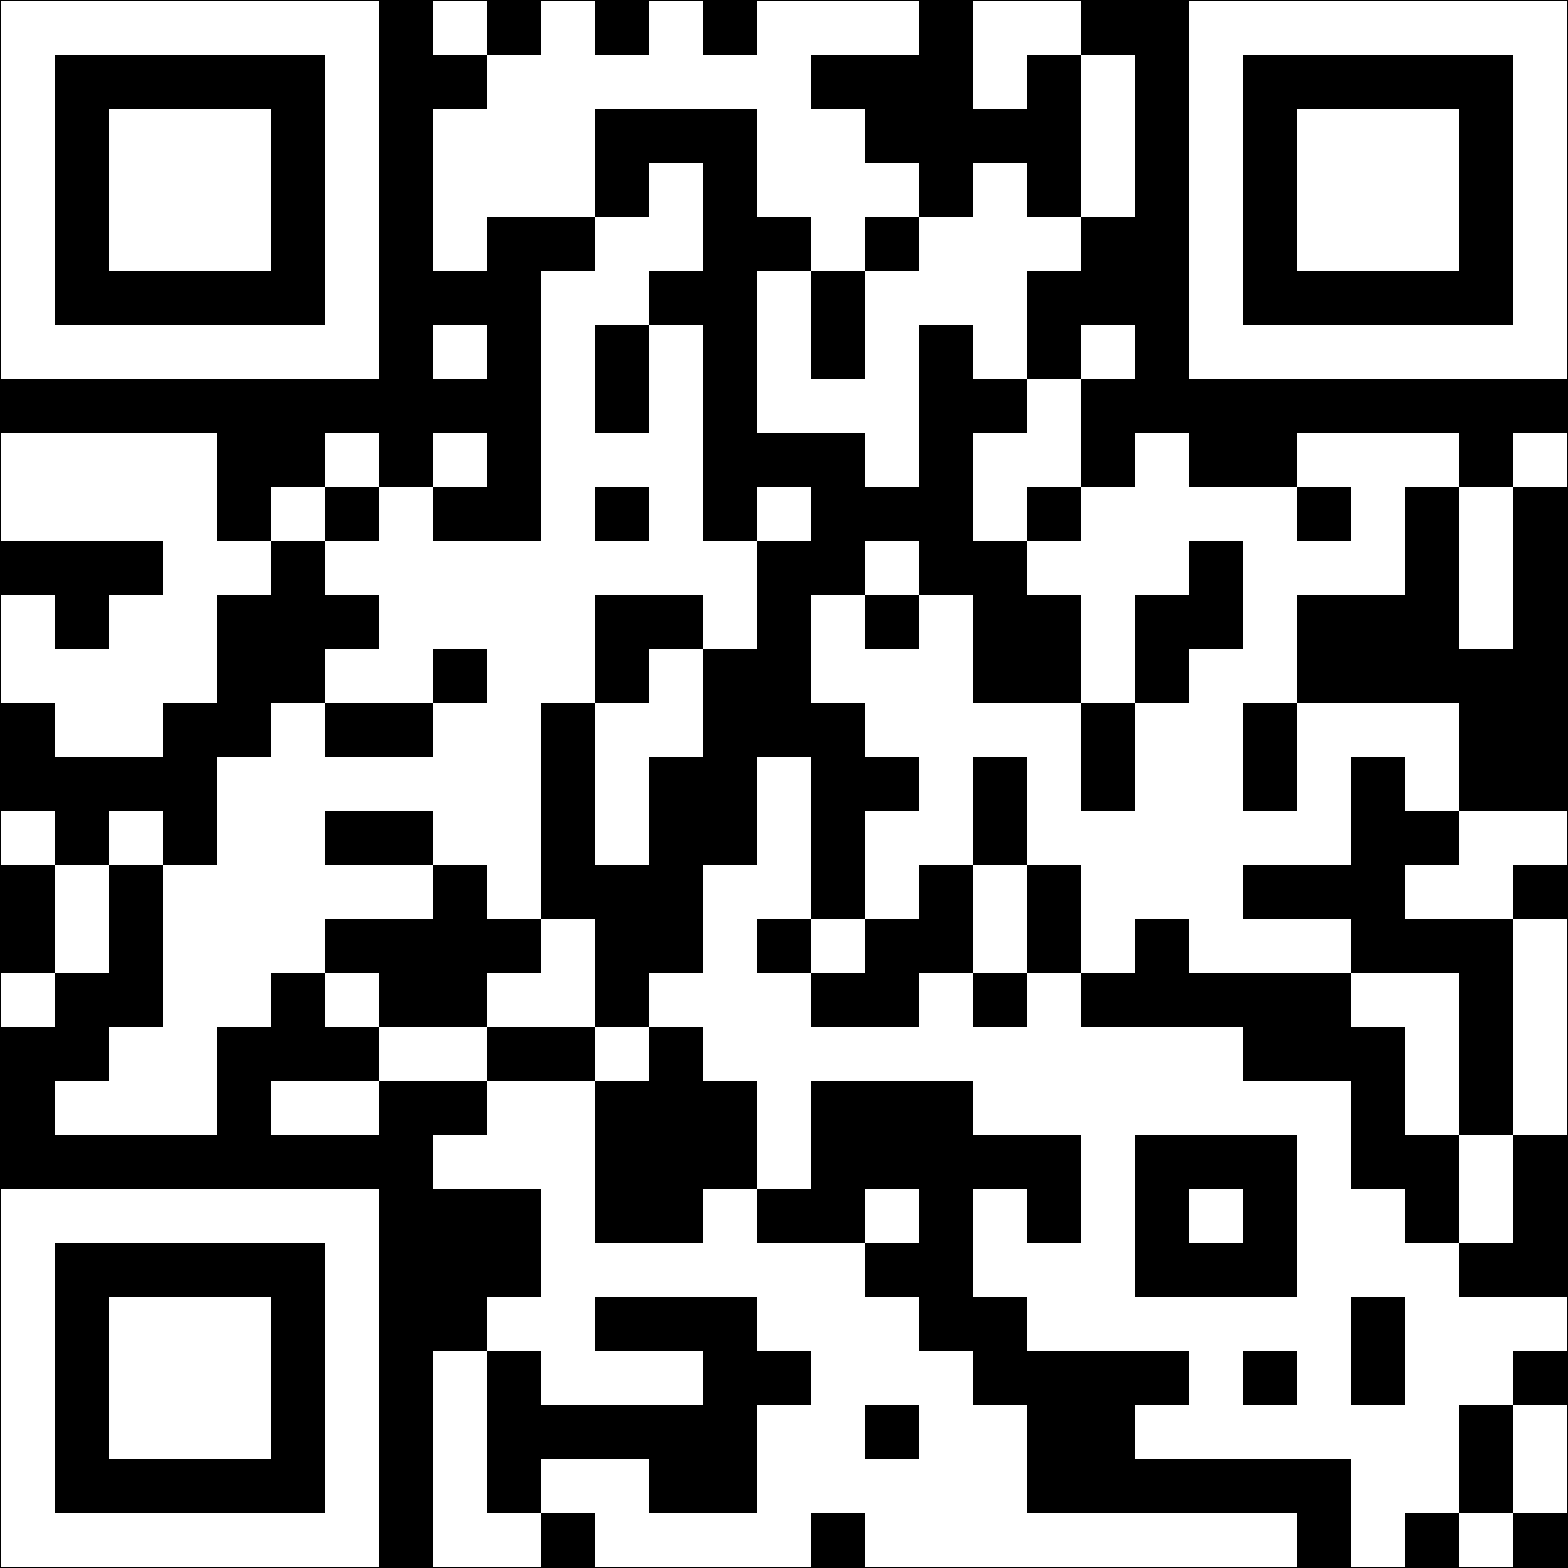
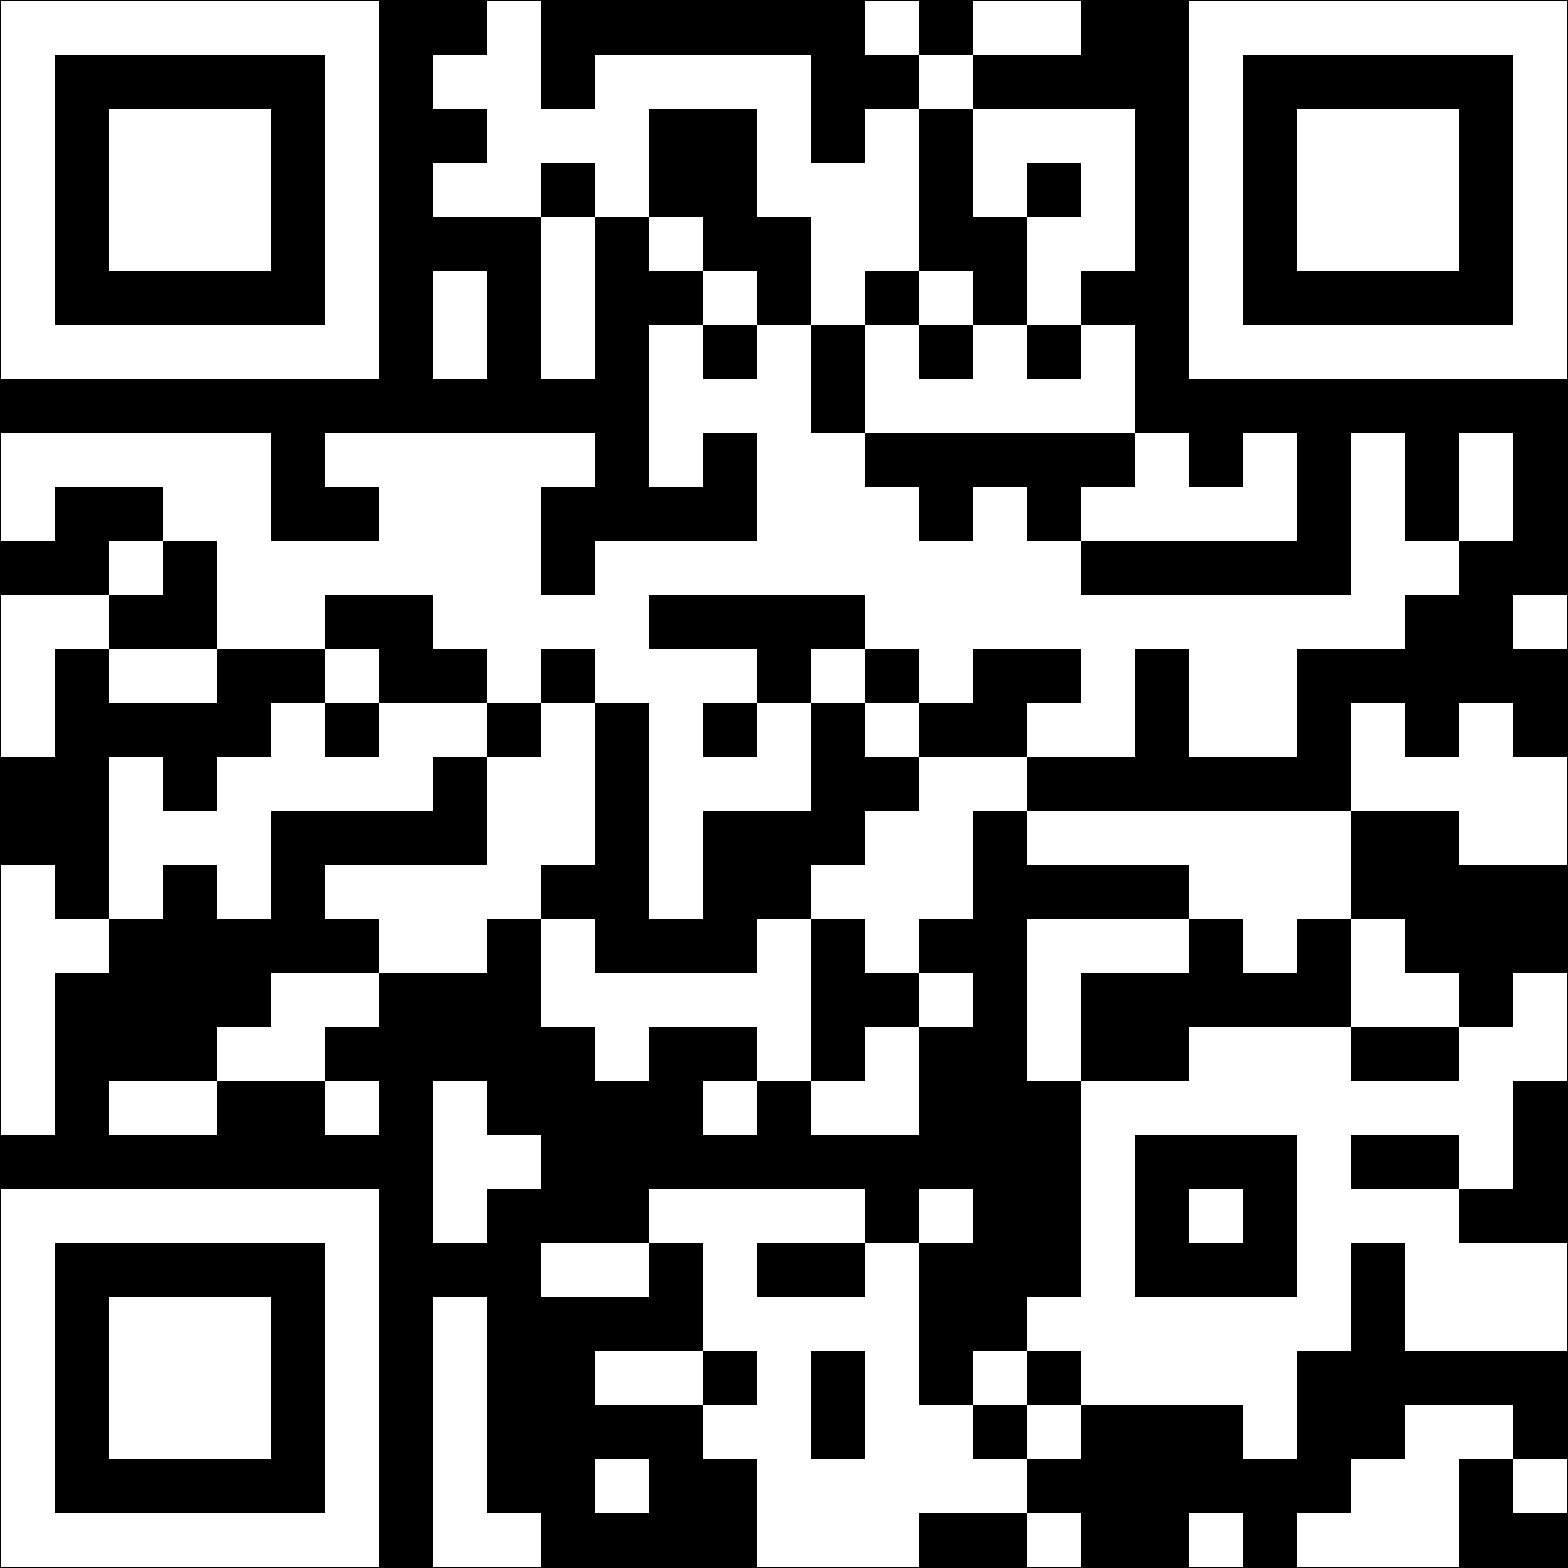
qr utm_source=artwork
updated qr codes on each image to reflect location on site

diff --git a/src/components/Artworks/Artwork.js b/src/components/Artworks/Artwork.js
@@ -67,7 +67,7 @@ const Artwork = (props) => {
         <div className="artwork-item__link">
           <img
             className="artwork-item__qr"
-            src={`/images/qr-codes/qr-monolyth.global-utmCarousel.png`}
+            src={`/images/qr-codes/qr-monolyth.global-utmArtwork.png`}
             alt="QR code to get additional info"
           />
           {/* <h3>theprintfineart.com</h3> */}

diff --git a/src/components/EmailCollection/EmailCollection.scss b/src/components/EmailCollection/EmailCollection.scss
@@ -31,7 +31,7 @@
   }
 
   h3 {
-    margin-top: 0;
+    margin-top: 10px;
     font-weight: 600;
   }
 
